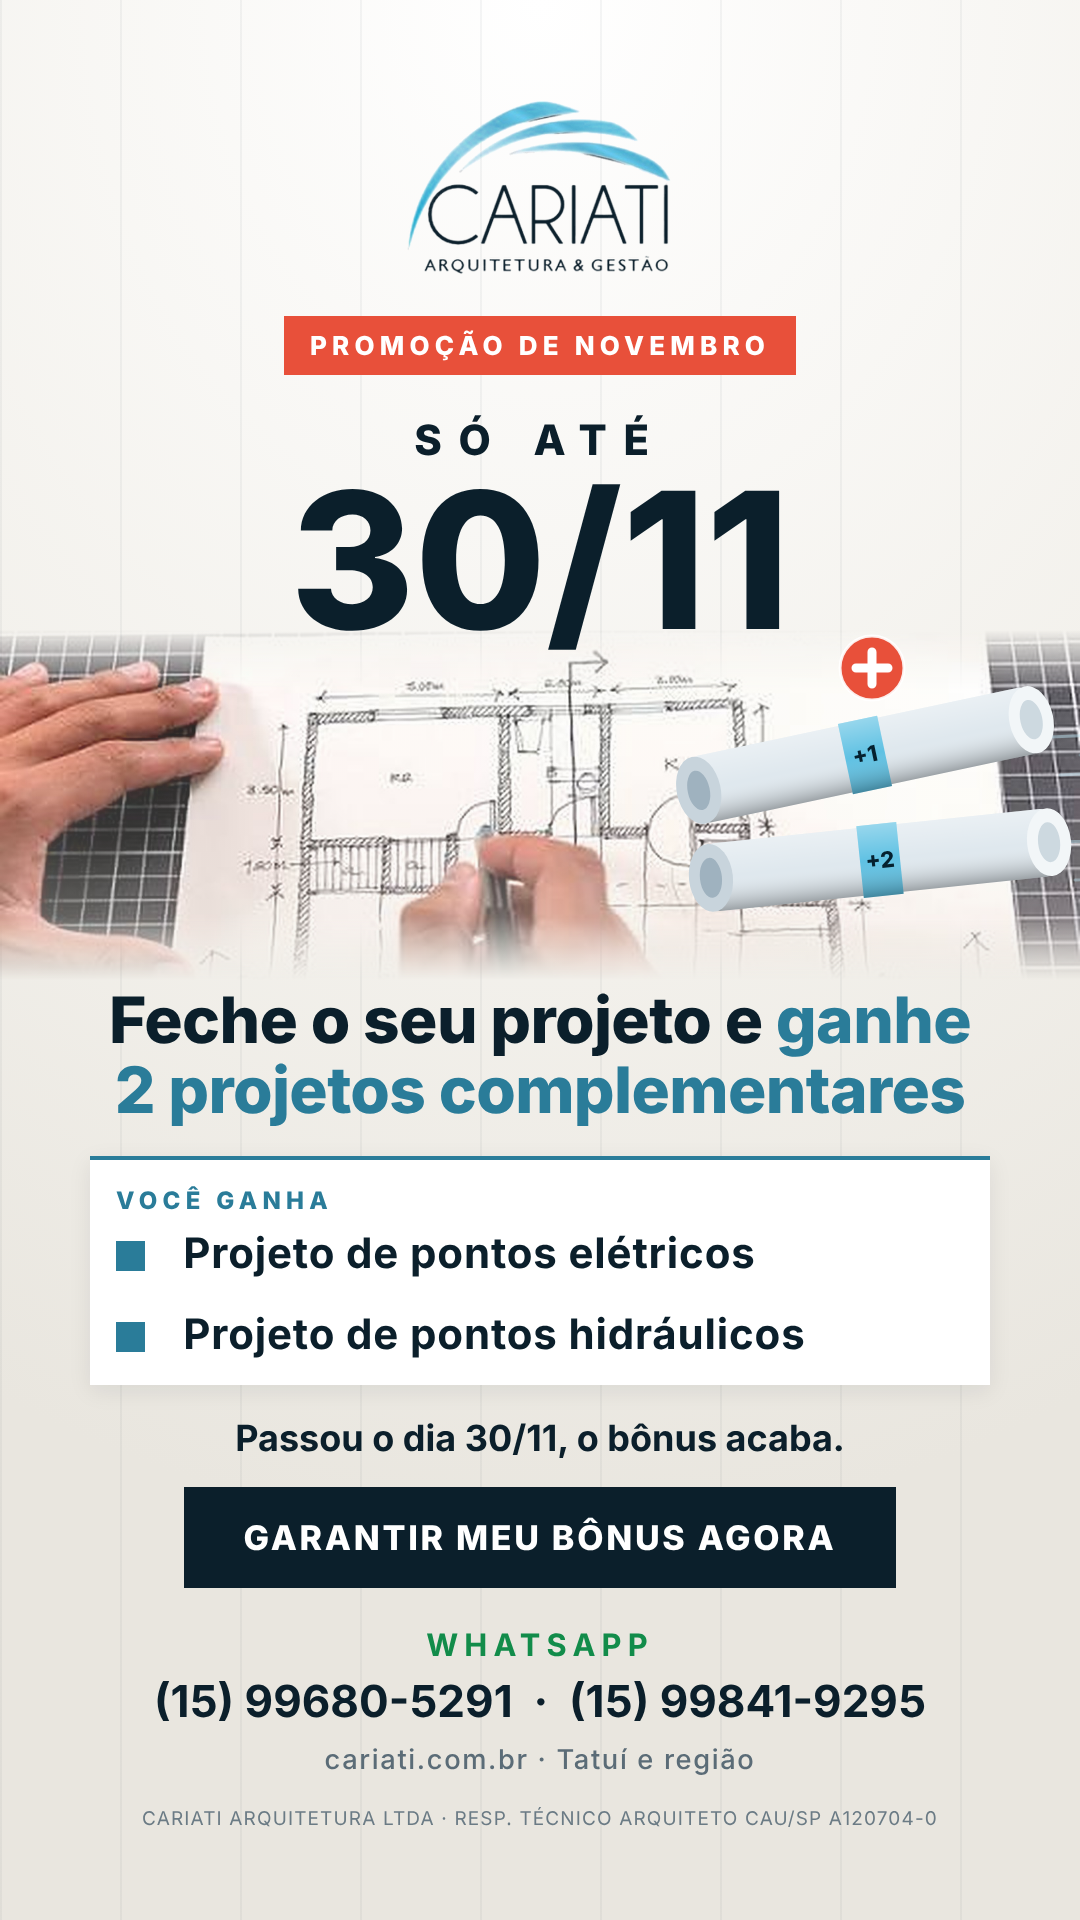
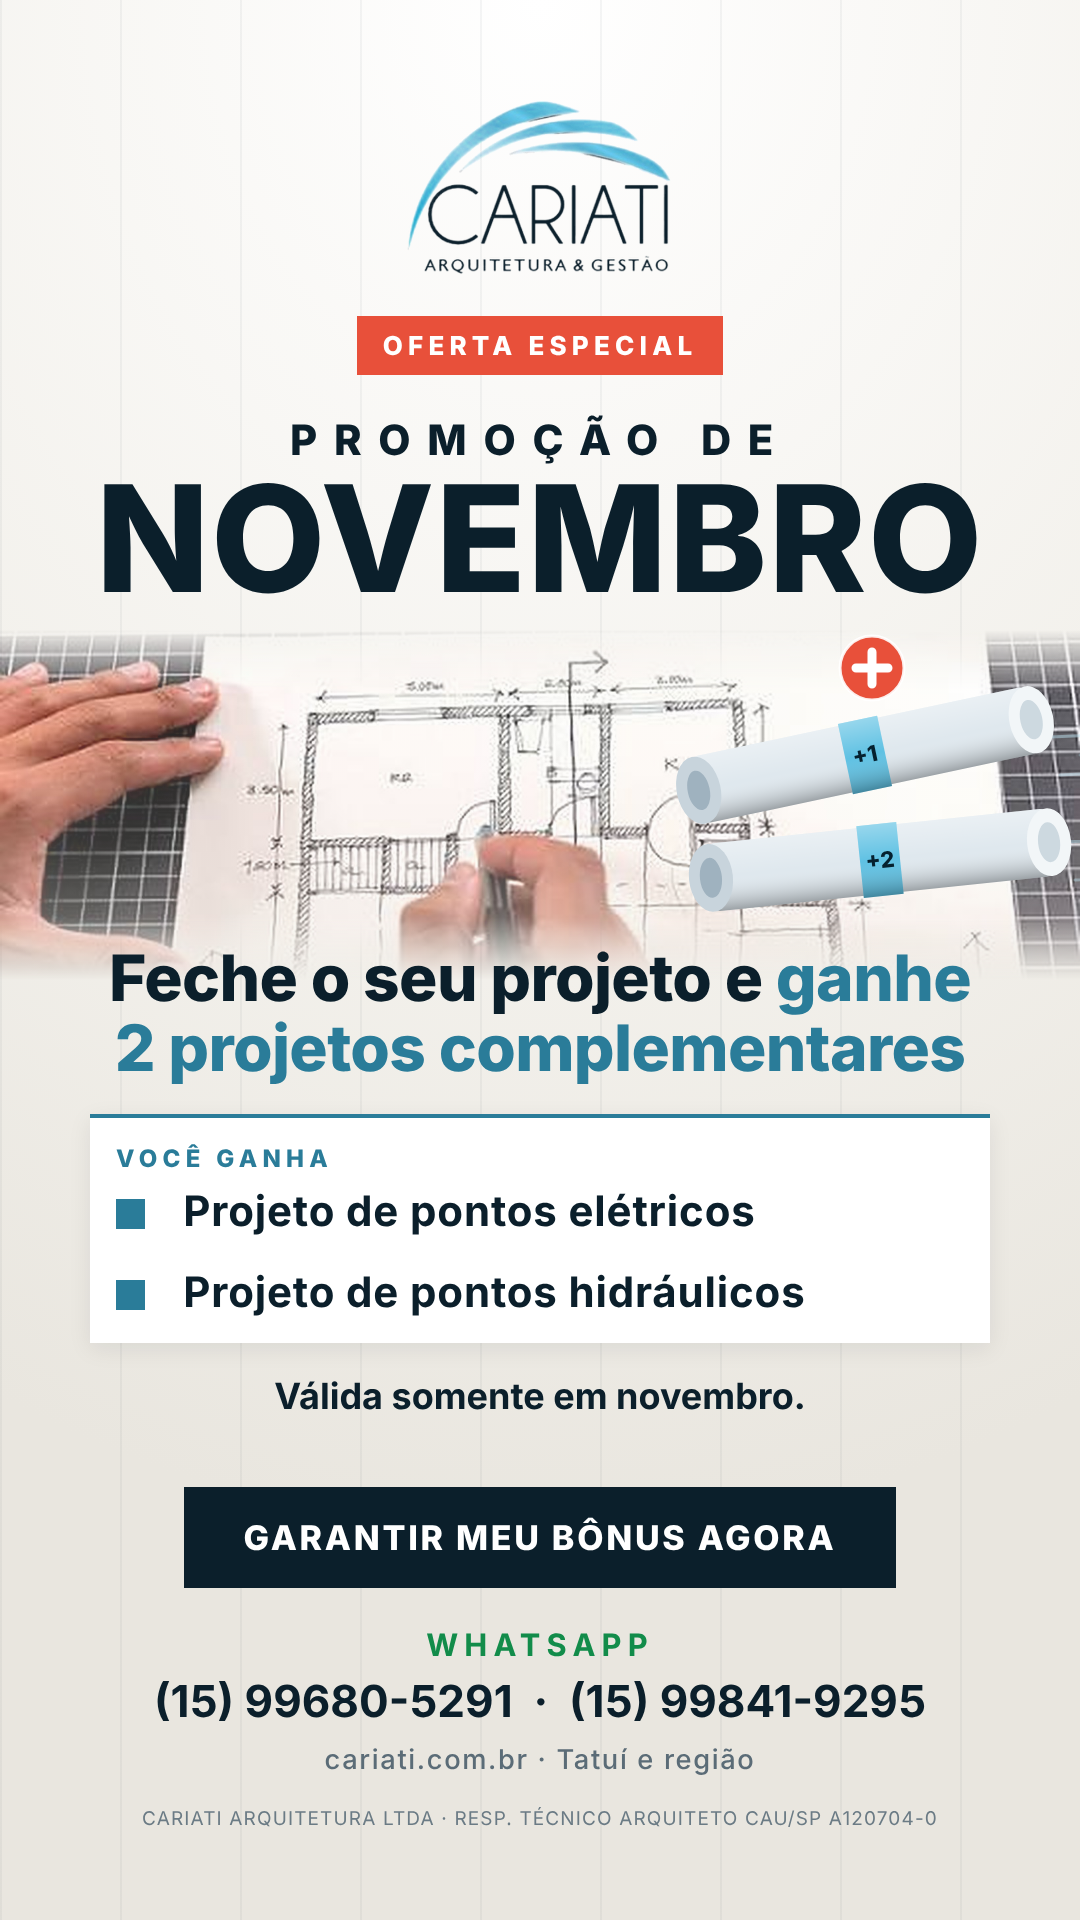
Promo November: remove 30/11 deadline, enlarge 'NOVEMBRO' headline
Claude-Session: https://claude.ai/code/session_012W4cPJrLBDcgKi33Cw4yCm

Changed region(s): [[0.0611, 0.5, 0.9167, 0.7812], [0.0917, 0.1562, 0.9167, 0.3438]]

diff --git a/flyers_cariati/build.py b/flyers_cariati/build.py
@@ -53,6 +53,7 @@ h1 em{font-style:normal;color:#5fc1e3}
 .hero.nb svg{-webkit-mask-image:linear-gradient(180deg,#000 93%,transparent);mask-image:linear-gradient(180deg,#000 93%,transparent)}
 .ov{color:#fff;text-shadow:0 4px 24px rgba(0,0,0,.6)}
 .ovs{font-weight:800;letter-spacing:.4em;font-size:calc(var(--ds)*.22)}
+.ovd.nov{font-size:var(--nv);letter-spacing:.01em}
 .ovd{font-weight:800;font-size:var(--ds);line-height:1}
 .grid3{display:grid;grid-template-columns:1fr 1fr 1fr;gap:var(--g3)}
 .card{background:rgba(255,255,255,.05);border-top:4px solid #5fc1e3;padding:var(--cd)}
@@ -90,8 +91,8 @@ PH=mkph('(15) 99841-9295')
 PH2=mkph('(15) 99841-9295')
 FOOT='<div class="foot z">CARIATI ARQUITETURA LTDA · RESP. TÉCNICO ARQUITETO CAU/SP A120704-0</div>'
 V=dict(w=1080,h=1920)
-VV=dict(p="90px",lh="190px",e="26px",h1="74px",s="36px",g="36px",c="34px",cp="30px 60px",t="44px",fs="19px",ls="42px",lg="30px",big="260px",hh="900px",ds="190px",ph="64px",dh="76px",sn="74px",sl="26px",chg="18px",chf="40px",chp="20px 20px",g3="22px",cd="26px",cl="30px",ch="38px",cp2="27px")
-SQ=dict(p="64px",lh="140px",e="21px",h1="64px",s="28px",g="26px",c="27px",cp="22px 46px",t="34px",fs="15px",ls="35px",lg="24px",big="150px",hh="430px",ds="110px",ph="44px",dh="52px",sn="42px",sl="19px",chg="10px",chf="25px",chp="11px 10px",g3="16px",cd="22px",cl="26px",ch="32px",cp2="23px")
+VV=dict(p="90px",lh="190px",e="26px",h1="74px",s="36px",g="36px",c="34px",cp="30px 60px",t="44px",fs="19px",ls="42px",lg="30px",big="260px",hh="900px",ds="190px",nv="148px",ph="64px",dh="76px",sn="74px",sl="26px",chg="18px",chf="40px",chp="20px 20px",g3="22px",cd="26px",cl="30px",ch="38px",cp2="27px")
+SQ=dict(p="64px",lh="140px",e="21px",h1="64px",s="28px",g="26px",c="27px",cp="22px 46px",t="34px",fs="15px",ls="35px",lg="24px",big="150px",hh="430px",ds="110px",nv="80px",ph="44px",dh="52px",sn="42px",sl="19px",chg="10px",chf="25px",chp="11px 10px",g3="16px",cd="22px",cl="26px",ch="32px",cp2="23px")
 def photo(img,h,pos="center"):
     return f"<div class='photo z' style=\"flex:none;height:{h}px;background-image:url('assets/{img}');background-position:{pos}\"></div>"
 def sp(n): return f"<div style='height:{n}px;flex:none'></div>"
@@ -194,12 +195,13 @@ def blueprint(H,ry,rs,photo=False):
     big=H>600
     tx,ty,ps=(500,720,.85) if big else (330,344,.45)
     pencil=f"""<g><line x1="{tx-95*ps*1.2:.0f}" y1="{ty}" x2="{tx}" y2="{ty}" stroke="#fff" stroke-width="{4*ps+1:.1f}" stroke-linecap="round" opacity=".95"/><g transform="translate({tx},{ty}) rotate(150) scale({ps})"><polygon points="0,0 44,-13 44,13" fill="#e8c9a0"/><polygon points="0,0 14,-4.3 14,4.3" fill="#2b2f33"/><rect x="44" y="-13" width="216" height="26" fill="#f4c542"/><rect x="44" y="-13" width="216" height="8" fill="#fff" opacity=".35"/><rect x="44" y="6" width="216" height="7" fill="#000" opacity=".18"/><rect x="260" y="-13" width="26" height="26" fill="#b7c0c7"/><rect x="260" y="-13" width="26" height="8" fill="#fff" opacity=".4"/><rect x="286" y="-13" width="24" height="26" rx="5" fill="#e86f7a"/></g></g>"""
-    rx1,ry1=W-215,ry; rx2,ry2=W-200,ry+105*rs
+    dx=50 if (photo and H>=400) else 0
+    rx1,ry1=W-215+dx,ry; rx2,ry2=W-200+dx,ry+105*rs
     def streak(cx,cy,L): return "".join(f'<line x1="{cx+175*rs+10+o}" y1="{cy+dy*rs}" x2="{cx+175*rs+10+o+L}" y2="{cy+dy*rs-4}" stroke="#bfe6f5" stroke-width="{3*rs:.1f}" stroke-linecap="round" opacity="{op}"/>' for o,dy,op in ((0,-18,.45),(30,0,.3),(10,20,.4)))
     rolls=streak(rx1,ry1,90*rs)+streak(rx2,ry2,80*rs)+roll(rx1,ry1,-12,"+1",rs)+roll(rx2,ry2,-6,"+2",rs)+pencil
     if photo:
         rolls=rolls.replace(pencil,'')
-        px,py,pr=(872,38,32) if H<400 else (872,245,26)
+        px,py,pr=(872,38,32) if H<400 else (922,250,24)
         plus=f'<g><circle cx="{px}" cy="{py}" r="{pr}" fill="#e8503a"/><circle cx="{px}" cy="{py}" r="{pr}" fill="none" stroke="#fff" stroke-width="3" opacity=".9"/><path d="M{px-pr*.5} {py}H{px+pr*.5}M{px} {py-pr*.5}V{py+pr*.5}" stroke="#fff" stroke-width="{pr*.28:.1f}" stroke-linecap="round"/></g>'
         return f"""<svg xmlns="http://www.w3.org/2000/svg" viewBox="0 0 {W} {H}" width="{W}" height="{H}" style="position:absolute;left:0;top:0;z-index:2"><defs><linearGradient id="shade" x1="0" y1="0" x2="0" y2="1"><stop offset="0" stop-color="#fff" stop-opacity=".35"/><stop offset=".5" stop-color="#fff" stop-opacity="0"/><stop offset="1" stop-color="#000" stop-opacity=".3"/></linearGradient></defs>{rolls}{plus}</svg>"""
     return f"""<svg xmlns="http://www.w3.org/2000/svg" viewBox="0 0 {W} {H}" width="{W}" height="{H}" style="position:absolute;left:0;top:0"><defs><linearGradient id="bg" x1="0" y1="0" x2="0" y2="1"><stop offset="0" stop-color="#0d2c40"/><stop offset="1" stop-color="#071622"/></linearGradient><linearGradient id="shade" x1="0" y1="0" x2="0" y2="1"><stop offset="0" stop-color="#fff" stop-opacity=".35"/><stop offset=".5" stop-color="#fff" stop-opacity="0"/><stop offset="1" stop-color="#000" stop-opacity=".3"/></linearGradient></defs><rect width="{W}" height="{H}" fill="url(#bg)"/><g stroke="#5fc1e3" stroke-opacity=".13" stroke-width="1">{g}</g>{plan}{rolls}</svg>"""
@@ -211,12 +213,12 @@ def fpromo(vert):
     if vert:
         hero="<div class='hero hp2' style=\"background-image:url('assets/ref_desenho.jpg')\"></div><div style='position:absolute;left:0;top:630px;width:1080px;height:350px;z-index:2'>"+blueprint(350,125,1,True)+"</div>"
     else:
-        hero="<div class='hero hp' style=\"background-image:url('assets/ref_desenho.jpg');background-position:center 62%\"></div><div style='position:absolute;left:0;top:0;width:1080px;height:430px;z-index:2'>"+blueprint(430,330,0.72,True)+"</div>"
+        hero="<div class='hero hp' style=\"background-image:url('assets/ref_desenho.jpg');background-position:center 62%\"></div><div style='position:absolute;left:0;top:0;width:1080px;height:430px;z-index:2'>"+blueprint(430,340,0.6,True)+"</div>"
     lg='<img class="logo z" src="assets/logo.png" style="height:var(--lh);align-self:center">'
-    urg='<div class="z" style="align-self:center"><span class="urg">Promoção de novembro</span></div>'
-    date='<div class="z ov" style="text-align:center"><div class="ovs">SÓ ATÉ</div><div class="ovd">30/11</div></div>'
+    urg='<div class="z" style="align-self:center"><span class="urg">Oferta especial</span></div>'
+    date='<div class="z ov" style="text-align:center"><div class="ovs">PROMOÇÃO DE</div><div class="ovd nov">NOVEMBRO</div></div>'
     h='<h1 class="z" style="font-size:var(--ph);line-height:1.1">Feche o seu projeto e <em>ganhe 2 projetos complementares</em></h1>'
-    loss='<div class="sub z" style="font-size:var(--s)"><b>Passou o dia 30/11, o bônus acaba.</b></div>'
+    loss='<div class="sub z" style="font-size:var(--s)"><b>Válida somente em novembro.</b></div>'
     if vert:
         return hero+lg+sp(36)+urg+sp(40)+date+sp(330)+h+sp(30)+box+sp(28)+loss+flex()+'<div class="cta z">Garantir meu bônus agora</div>'+sp(34)+PH+sp(26)+FOOT
     return hero+lg+sp(10)+urg+sp(8)+date+sp(60)+h+sp(12)+box.replace('<ul class="list" style="margin-top:12px">','<ul class="list" style="margin-top:8px;--ls:27px;--lg:10px">')+sp(10)+loss+flex()+'<div class="cta z">Garantir meu bônus agora</div>'+sp(12)+PH+sp(4)
